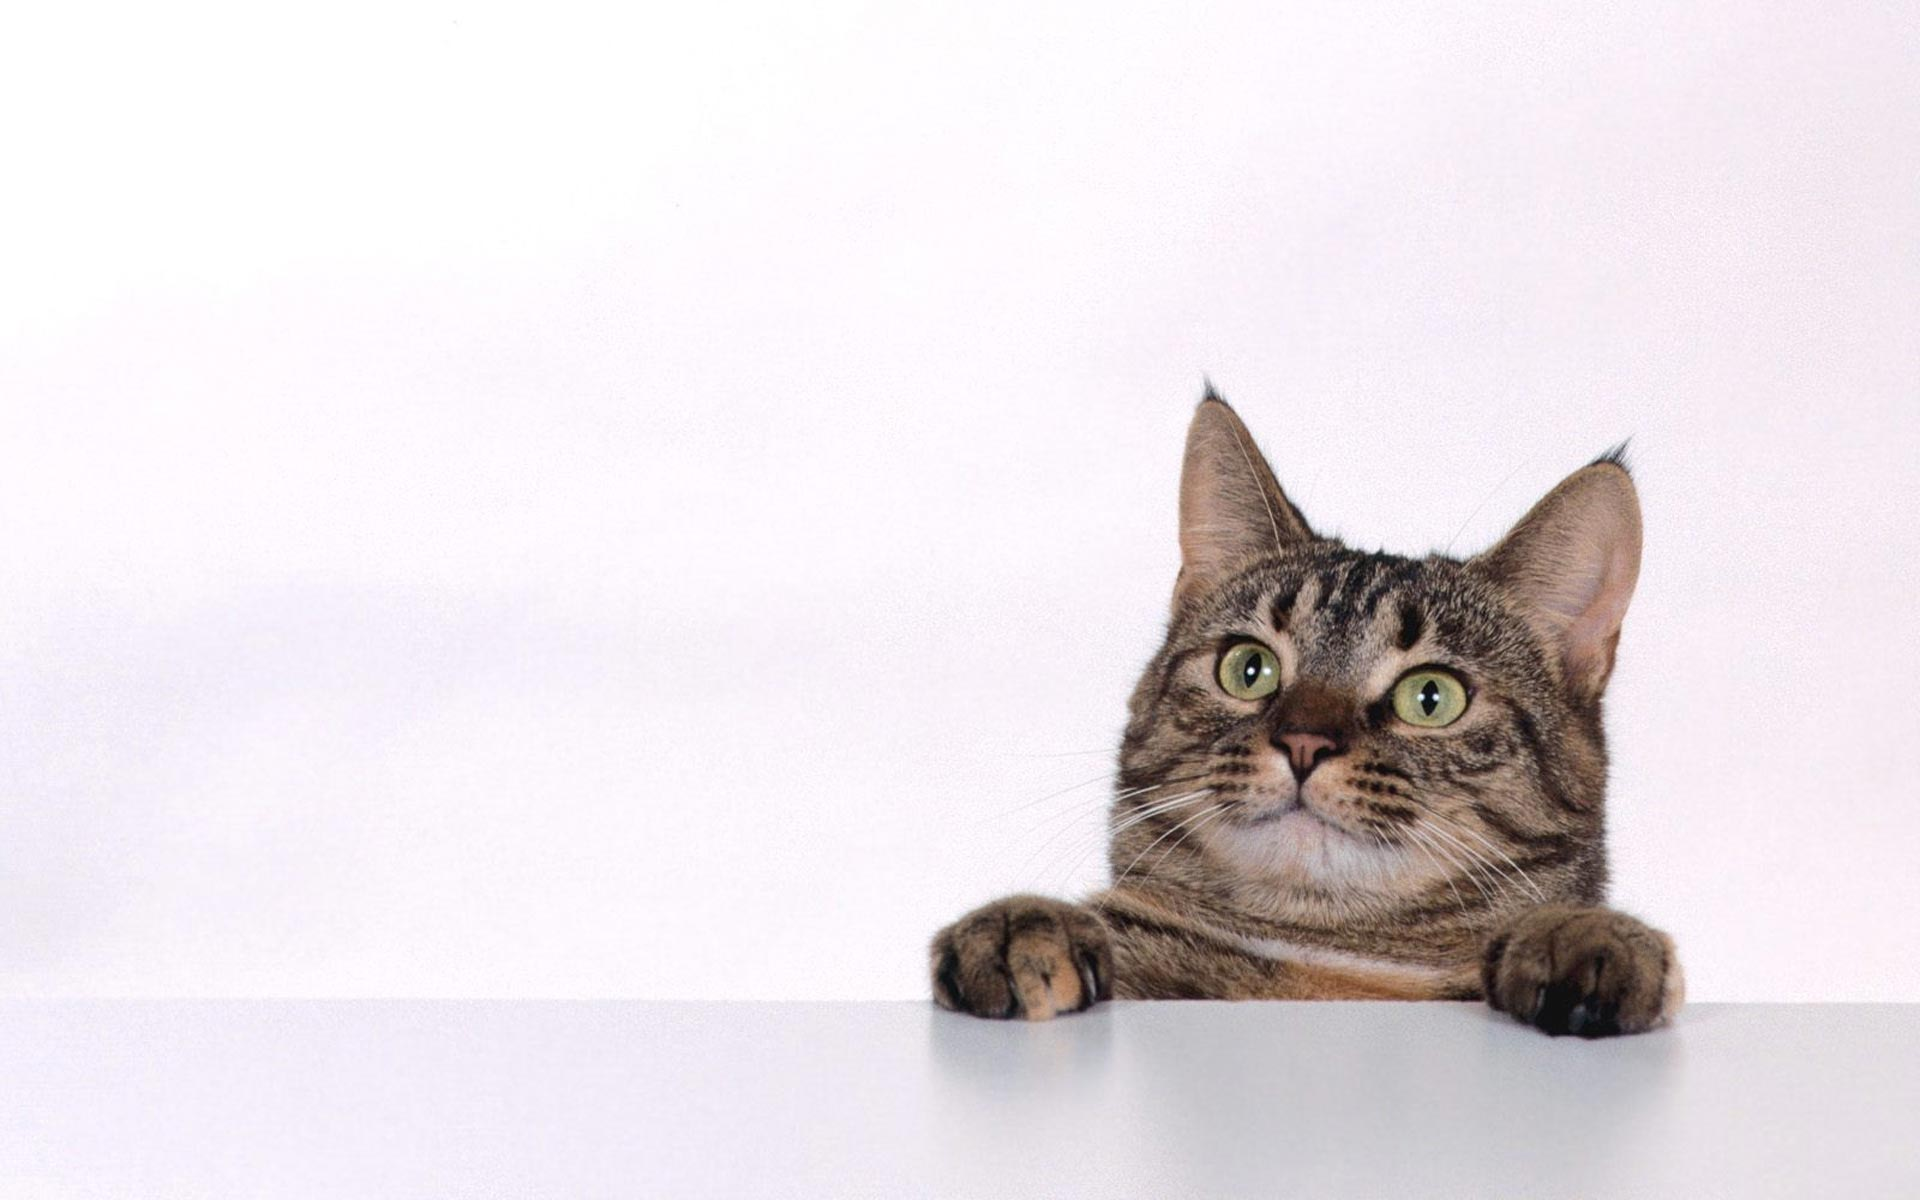
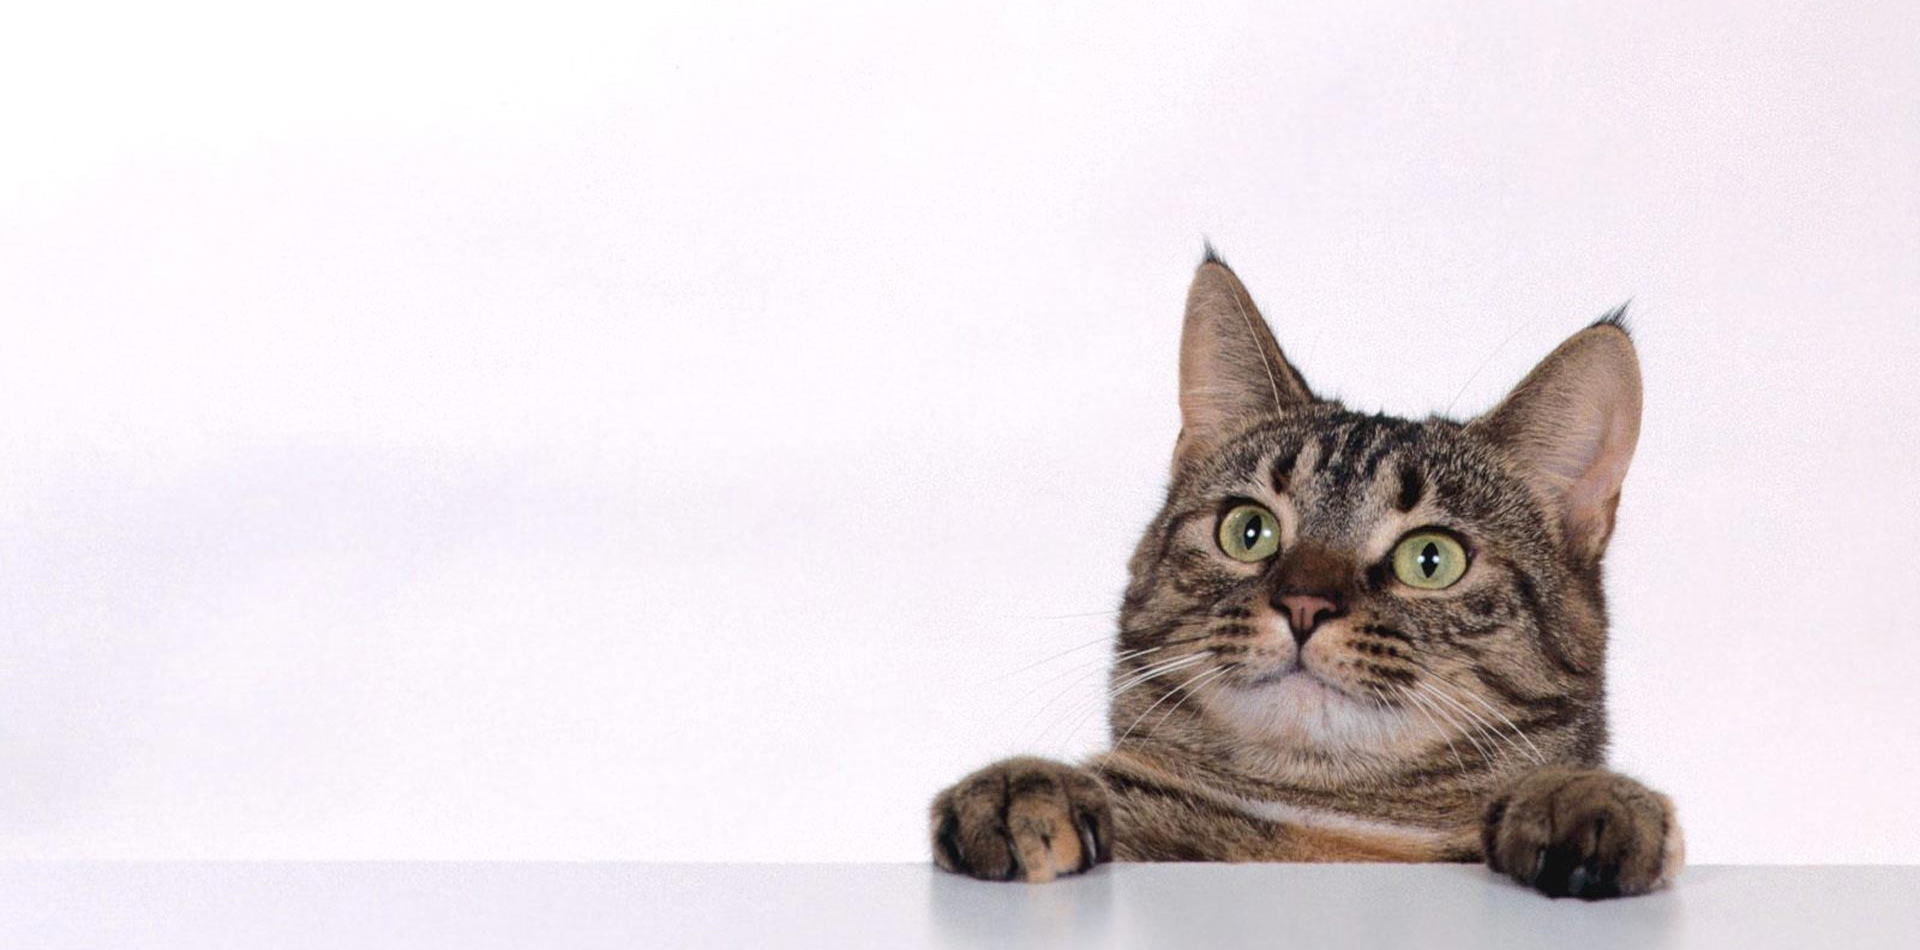
updated

Changed region(s): [[0.4688, 0.2442, 1.0, 1.0]]

diff --git a/style/style.scss b/style/style.scss
@@ -1,6 +1,6 @@
 $bcolor: #eeeded;
 $fontColor: #0066ff;
-$fontFamily: 'Lobster', cursive;
+$fontFamily: 'Lobster', 'cursivesa';
 
 @mixin max-widthContent{
     max-width: 1280px;
@@ -31,9 +31,9 @@ header {
         
         .logo {
             a{
-                font-size: 50px;
+                font-size: 40px;
                 text-decoration: none;
-                font-family: $fontFamily;
+                font-weight: bold;
                 color: $fontColor;
                 
             }
@@ -63,23 +63,35 @@ header {
     // *************CONTENT SECTION ************
 
 
-    .content{
-        
-        
-        width: 100%;
-        height: 100vh;
-        position: relative;
+   
+        .content{
+            width:100%;
+            position: relative;
+            height: fit-content;
+            overflow: hidden;
+           
+
+            img {
+                width: 100%;
+                height: auto;
+                
+                
+
+            }
         
        
         
        
+      
         .btnLoadMore{
             position: absolute;
-            bottom: 20px;
-            right: 50%;
-            
+            bottom: 15px;
+            left: 50%;
+            transform: translateX(-50%);
+           
+           
 
-         button{
+            button{
              padding: 10px;
              cursor: pointer;
              background-color: $bcolor;
@@ -96,9 +108,13 @@ header {
 
          }
         }
+    }
+    
+
+      
 
         
-    }
+    
 
  // *************FOOTER SECTION ************
 

diff --git a/style/style.css b/style/style.css
@@ -20,9 +20,9 @@ nav {
   padding: 0 50px;
 }
 nav .logo a {
-  font-size: 50px;
+  font-size: 40px;
   text-decoration: none;
-  font-family: "Lobster", cursive;
+  font-weight: bold;
   color: #0066ff;
 }
 nav ul {
@@ -41,13 +41,21 @@ nav ul a:hover {
 
 .content {
   width: 100%;
-  height: 100vh;
   position: relative;
+  height: -webkit-fit-content;
+  height: -moz-fit-content;
+  height: fit-content;
+  overflow: hidden;
+}
+.content img {
+  width: 100%;
+  height: auto;
 }
 .content .btnLoadMore {
   position: absolute;
-  bottom: 20px;
-  right: 50%;
+  bottom: 15px;
+  left: 50%;
+  transform: translateX(-50%);
 }
 .content .btnLoadMore button {
   padding: 10px;

diff --git a/index.html b/index.html
@@ -38,14 +38,13 @@
 
         <div class="content">
                 <img src="./img/bgcat.jpg" alt="">
-                <h1>HELLO WORLD</h1>
+                <div class="btnLoadMore">
+                    <button>Load more</button>
+                </div>
          </div>
 
 
 
-                <!-- <div class="btnLoadMore">
-                    <button>Load more</button>
-                </div> -->
                 
             
              
@@ -62,7 +61,7 @@
          <!--------- FOOTER SECTION -------->
 
          <div class="footer">
-                <p>Fe test | allright reserved</p>
+                <p>allright reserved</p>
          </div>
     
 </body>
